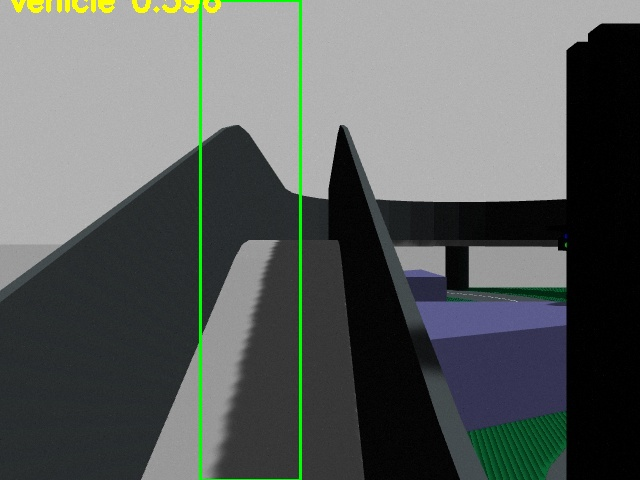
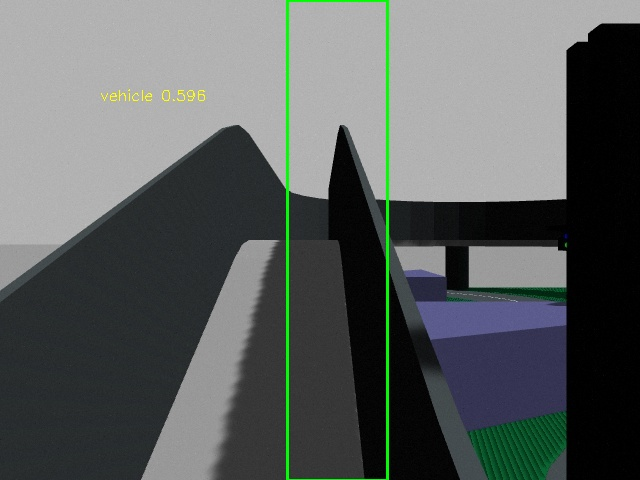
fix calib.py

Changed region(s): [[0.0, 0.0, 0.625, 1.0]]

diff --git a/site_ws/src/site_model/src/RadCamFusion/calib.py b/site_ws/src/site_model/src/RadCamFusion/calib.py
@@ -7,31 +7,32 @@ import math
 import numpy as np
 from tomlkit import string
 
-def world_to_pixel(config: dict, pole_name: string, camera_name: string):
-    world_to_camera_ = world_to_camera(config,pole_name,camera_name)
+# transform matrix
+def world_to_pixel(config: dict, pole_name: string, camera_name: string, x: int, y: int):
+    instance, world_to_camera_ = world_to_camera(config,pole_name,camera_name, x, y)
     camera_to_pixel_ = camera_to_pixel(config,camera_name)
 
     world_to_pixel_ = np.matmul(camera_to_pixel_,world_to_camera_)
-    print("world_to_image:")
+    print("world_to_pixel:")
     print(world_to_pixel_)
 
-    return world_to_pixel_
+    return instance, world_to_pixel_
 
 # camera external parameter matrix
-def world_to_camera(config: dict, pole_name: string, camera_name: string):
+def world_to_camera(config: dict, pole_name: string, camera_name: string, x: int, y: int):
     pole = config['calib']['pole_pose'][pole_name]
     camera = config['calib']['camera_pose'][camera_name]
 
     world_to_pole = RTmatrix(pole)
-#     print("world_to_pole:")
-#     print(world_to_pole)
     pole_to_camera = RTmatrix(camera)
-#     print("pole_to_camera:")
-#     print(pole_to_camera)
     world_to_camera_ = np.matmul(world_to_pole,pole_to_camera)
+
+    # caculate the absolute coordinate x of camera and instance
+    instance = y - (-1.250682844)
+    
     print("world_to_camera")
     print(world_to_camera_)
-    return world_to_camera_
+    return instance, world_to_camera_
 
 def RTmatrix(pose):
     # Translation matrix
@@ -49,10 +50,10 @@ def RTmatrix(pose):
             [0,               1,               0],
             [-math.sin(p_angle),0,math.cos(p_angle)]]
     Rz = [[math.cos(y_angle),-math.sin(y_angle),0],
-           [math.sin(y_angle),math.cos(y_angle),0],
-           [0                ,0                ,1]]
+            [math.sin(y_angle),math.cos(y_angle),0],
+            [0                ,0                ,1]]
 
-    R = np.matmul(Rx,np.matmul(Ry,Rz))
+    R = np.matmul(Rz,np.matmul(Ry,Rx)) # Wrong:R=RxRyRz
 
     # RTmatrix 
     O1 = np.transpose([[0],[0],[0],[1]])

diff --git a/site_ws/src/site_model/src/RadCamFusion/radar_roi.py b/site_ws/src/site_model/src/RadCamFusion/radar_roi.py
@@ -13,7 +13,6 @@ import yaml
 import cv2
 import os
 import calib
-# from ..calib.calib import *
 
 def main(config: dict):
     # load data and set output dir
@@ -24,7 +23,7 @@ def main(config: dict):
 
     # get radar
     size, x_poses, y_poses = get_radar_pts(data_rad_dir)
-    transform = calib.world_to_pixel(config,"pole2","camera2")
+    instance, transform = calib.world_to_pixel(config,"pole2","camera2",x_poses[0],y_poses[0])
     print("transform matrix:")
     print(transform)
 
@@ -34,7 +33,7 @@ def main(config: dict):
     print(y_poses)
 
     world_pose = [[x_poses[0]],[y_poses[0]],[2],[1]]
-    pixel_pose = np.matmul(transform,world_pose)
+    pixel_pose = np.matmul(transform,world_pose) / instance
     print("pixel_pose:")
     print(pixel_pose)
 
@@ -43,14 +42,14 @@ def main(config: dict):
         img = cv2.imread(fname)
 
         # draw boxes
-        pt1 = (200, 0) #left,up=num1,num2
-        pt2 = (200+100, 480) #right,down=num1+num3,num2+num4
+        pt1 = (round(pixel_pose[0][0]), 0) #left,up=num1,num2
+        pt2 = (round(pixel_pose[0][0])+100, 480) #right,down=num1+num3,num2+num4
         cv2.rectangle(img, pt1, pt2, (0, 255, 0), 2) # color and thickness of box
         
         label = 'vehicle'
         score = 0.596
         font = cv2.FONT_HERSHEY_SIMPLEX  # 定义字体
-        img = cv2.putText(img, '{} {:.3f}'.format(label,score), (10, 10), font, 1, (0, 255, 255), 4)
+        img = cv2.putText(img, '{} {:.3f}'.format(label,score), (100, 100), font, 0.5, (0, 255, 255), 1.5)
                             # img               content         坐标(右上角坐标)    font size   color   thickness
         
     # save results

diff --git a/site_ws/src/site_model/src/data_output/radar_listener.cpp b/site_ws/src/site_model/src/data_output/radar_listener.cpp
@@ -30,7 +30,7 @@ void RadarCB(const per_msgs::SensorMsgsRadar &Radarmsg)
 	ros::Publisher radar_pub = nh.advertise<sensor_msgs::PointCloud2> ("/radar_show_2", 1);     
 	pcl::PointCloud<pcl::PointXYZ> cloud; 
 	sensor_msgs::PointCloud2 output; 
-	
+
 	// Fill in the cloud data 
 	int v_num = Radarmsg.front_left_esr_tracklist.size();
 	std::cerr << "left_tracklist_size: " << Radarmsg.front_left_esr_tracklist.size() << std::endl;
